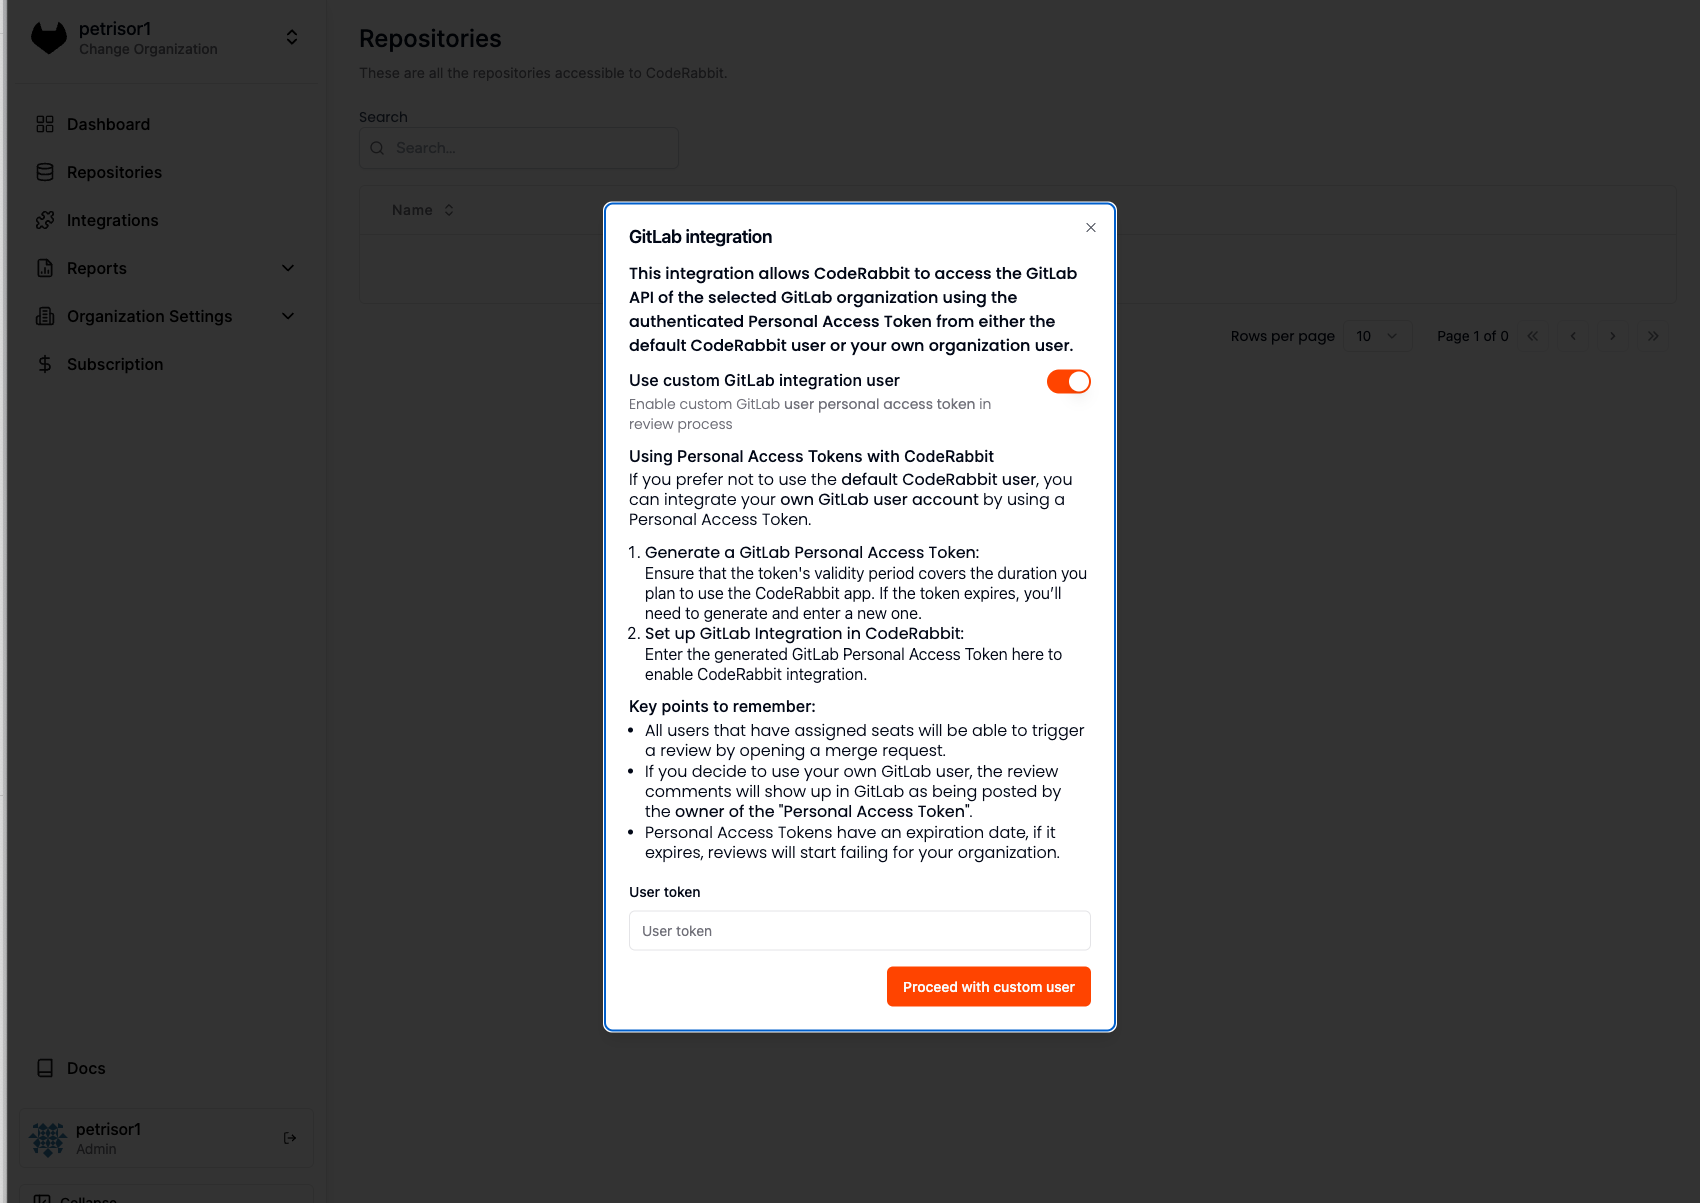
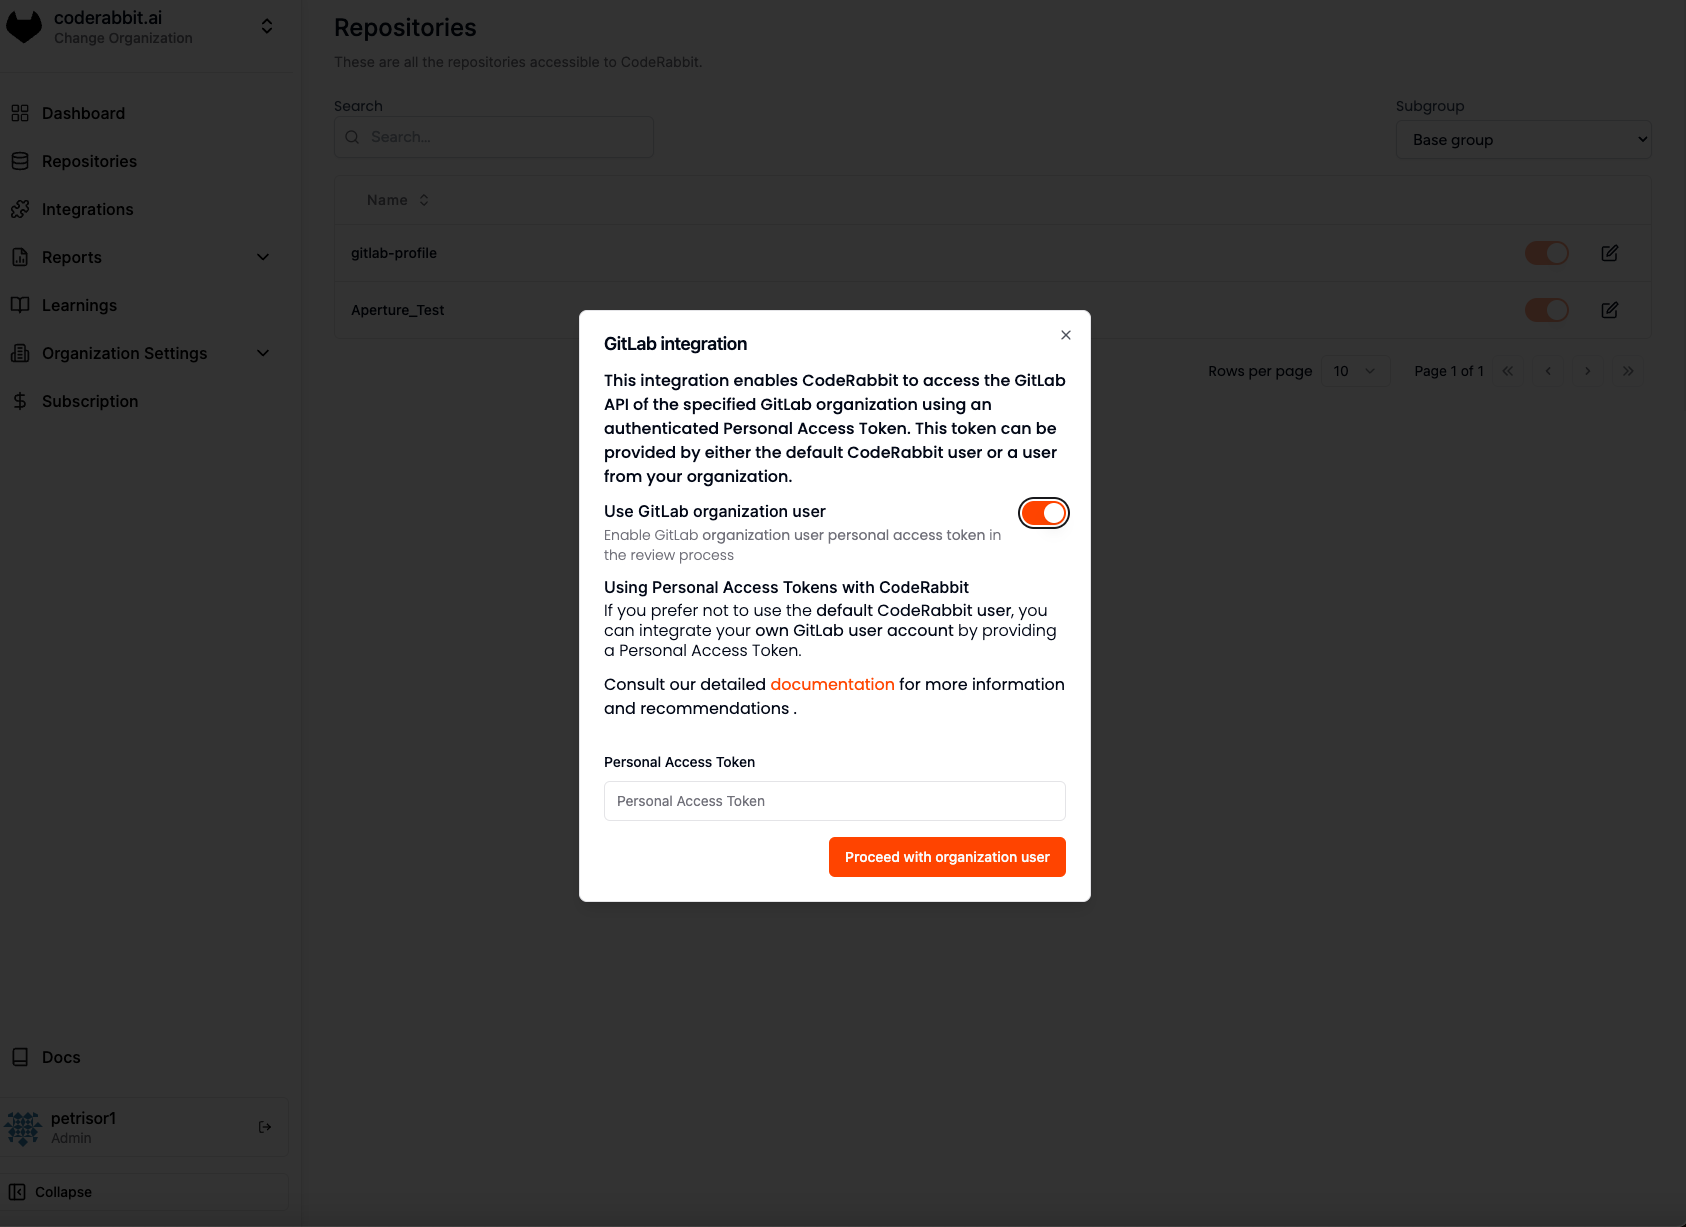
Update pictures Add how it works section for GitLab Saas

diff --git a/docs/integrations/saas-gitlab.md b/docs/integrations/saas-gitlab.md
@@ -6,6 +6,13 @@ sidebar_label: SaaS GitLab
 
 This guide will assist you in effectively integrating CodeRabbit with SaaS GitLab.
 
+## How it works
+For the CodeRabbit app to post reviews on merge requests, it needs to interact with the GitLab API, which requires a Personal Access Token. This token can be generated either by using our default CodeRabbit user or by creating a Personal Access Token from one of your existing users.
+
+The CodeRabbit default user is already set up in GitLab SaaS and will be added to your project when you install the CodeRabbit app. During installation, the necessary webhook for the project will also be created.
+
+If your organization prefers to use an organization user, you can create a new user in GitLab and generate a Personal Access Token for that user, following [our recommendations](#recommendations).
+
 ## GitLab Access Tokens
 To interact with the GitLab API, a **Personal Access Token** is required. This token can either be generated by using our default CodeRabbit user or by creating a **Personal Access Token** from one of your existing users.
 
@@ -24,7 +31,7 @@ If your organization opts to use another user within the organization, you can d
 * **Create a dedicated user for CodeRabbit** - This ensures the user is exclusively for CodeRabbit, allowing better access control.
 * **Use "CodeRabbit" as the username** - This makes the user easily recognizable for future reference.
 * **Use a dedicated email address** - This helps in easy identification and management.
-* **Use the CodeRabbit logo as the profile picture** - This further ensures easy recognition. You can download the logo from [here](https://coderabbit.ai/images/logo.png).
+* **Use the CodeRabbit logo as the profile picture** - This further ensures easy recognition. You can download our logo from [here](./images/logo.svg "download").
 
 #### Key Points to Remember
 
